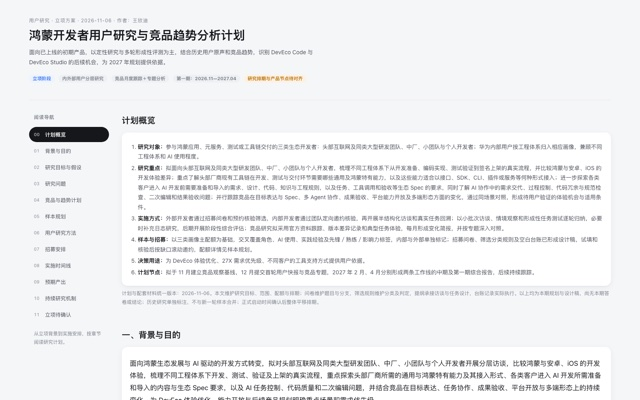
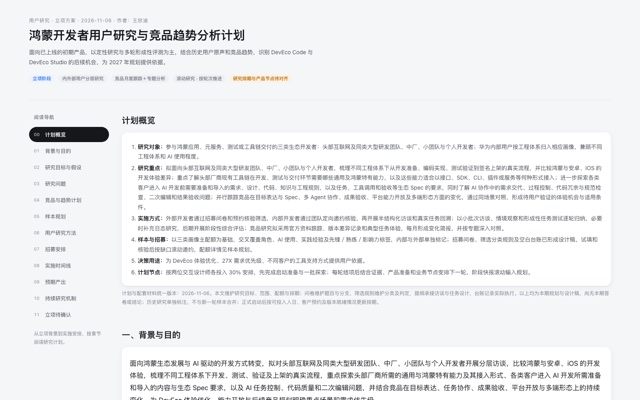
docs: schedule rolling research for two designers at 30 percent

diff --git a/analysis/user-research-plan/REPORT-鸿蒙开发者用户研究计划.html b/analysis/user-research-plan/REPORT-鸿蒙开发者用户研究计划.html
@@ -109,7 +109,7 @@ b{font-weight:600;color:var(--ink)}
   <div class="eyebrow">用户研究 · 立项方案 · 2026-11-06 · 作者：王欣迪</div>
   <h1>鸿蒙开发者用户研究与竞品趋势分析计划</h1>
   <p class="lede">面向已上线的初期产品，以定性研究与多轮形成性评测为主，结合历史用户原声和竞品趋势，识别 DevEco Code 与 DevEco Studio 的后续机会，为 2027 年规划提供依据。</p>
-  <div class="status"><span class="pill p-blue">立项阶段</span><span class="pill p-mute">内外部用户分层研究</span><span class="pill p-mute">竞品月度跟踪＋专题分析</span><span class="pill p-mute">第一期：2026.11—2027.04</span><span class="pill p-warn">研究排期与产品节点待对齐</span></div>
+  <div class="status"><span class="pill p-blue">立项阶段</span><span class="pill p-mute">内外部用户分层研究</span><span class="pill p-mute">竞品月度跟踪＋专题分析</span><span class="pill p-mute">滚动研究 · 按轮次推进</span><span class="pill p-warn">研究排期与产品节点待对齐</span></div>
 </header>
 <div class="report-layout">
   <aside class="sidebar" aria-label="阅读导航">
@@ -144,9 +144,9 @@ b{font-weight:600;color:var(--ink)}
     <li><b>实施方式：</b>外部开发者通过招募问卷和预约核验筛选，内部开发者通过团队定向邀约核验，再开展半结构化访谈和真实任务回溯；以小批次访谈、情境观察和形成性任务测试逐轮归纳，必要时补充日志研究，后期开展阶段性综合评估；竞品研究拟采用官方资料跟踪、版本差异记录和典型任务体验，每月形成变化简报，并按专题深入对照。</li>
     <li><b>样本与招募：</b>以三类画像主配额为基础，交叉覆盖角色、AI 使用、实践经验及先锋／熟练／影响力标签，内部与外部单独标记；招募问卷、筛选分类规则及空白台账已形成设计稿，试填和核验后按缺口滚动邀约，配额详情见样本规划。</li>
     <li><b>决策用途：</b>为 DevEco 体验优化、27X 需求优先级、不同客户的工具支持方式提供用户依据。</li>
-    <li><b>计划节点：</b>拟于 11 月建立竞品观察基线，12 月提交首轮用户快报与竞品专题，2027 年 2 月、4 月分别形成两条工作线的中期及第一期综合报告，后续持续跟踪。</li>
+    <li><b>计划节点：</b>按两位交互设计师各投入 30% 安排，先完成启动准备与一批探索；每轮结项后结合证据、产品准备和业务节点安排下一轮，阶段快报滚动输入规划。</li>
   </ol></div>
-  <p class="note">计划与配套材料统一版本：2026-11-06。本文维护研究目标、范围、配额与排期；问卷维护题目与分支，筛选规则维护分类及判定，提纲承接访谈与任务设计，台账记录实际执行。以上均为本期规划与设计稿，尚无本期答卷或结论；历史研究单独标注，不与新一轮样本合并；正式启动时间确认后整体平移排期。</p>
+  <p class="note">计划与配套材料统一版本：2026-11-06。本文维护研究目标、范围、配额与排期；问卷维护题目与分支，筛选规则维护分类及判定，提纲承接访谈与任务设计，台账记录实际执行。以上均为本期规划与设计稿，尚无本期答卷或结论；历史研究单独标注，不与新一轮样本合并；正式启动后按可投入人日、客户预约及版本就绪情况更新排期。</p>
   </section>
 
   <section aria-labelledby="background">
@@ -264,21 +264,12 @@ b{font-weight:600;color:var(--ink)}
   </tbody></table></div>
   <p class="note">按三类画像与实际角色选择可比任务：企业 / 平台人员重点对照 C2、C4，小团队与个人重点对照 C1、C3，承担生态服务或工具交付的人员补充 C4、C5；具体专题仍以实际任务为准。AI 未用者用于了解采用前提与现有工作方式，不强行参与 AI 工具熟练操作对照；内部支持条件单独记录。</p>
   <p class="note">任务规模、工程起点、测试数据与完成标准在体验前统一；结合 1028 版 P39 的度量关注点，记录意图确认、任务接续、迁移后首次跑通、多设备验证、定位到复验、流水线接入与签名提交的路径及耗时，并记录人工介入和证据完整性。平台与模型差异单独说明，避免将单次结果归因于产品设计。</p>
-  <h3>月度专题与阶段交付</h3>
-  <div class="tw"><table><thead><tr><th>计划时段</th><th>竞品趋势工作</th><th>与用户研究的衔接 / 预期产出</th></tr></thead><tbody>
-  <tr><th>2026 年 11 月</th><td>整理已有专题，复核观察基线，确定首轮产品、版本和任务。</td><td>形成跟踪清单与五专题问题表，支持首轮访谈追问。</td></tr>
-  <tr><th>12 月</th><td>优先深入 C1 开发准备与 C2 任务协作，滚动扫描其他专题。</td><td>配合首轮用户快报，交付准备 / Spec 与过程控制专题对照及待验证问题。</td></tr>
-  <tr><th>2027 年 1 月</th><td>深入 C3 质量验收与 C4 平台开放，补充典型任务体验。</td><td>结合本轮形成性评测及按需开展的观察／日志研究，形成验收路径、工具链与能力形式对照。</td></tr>
-  <tr><th>2 月</th><td>复核前期变化与反例，综合五专题的证据和待补项。</td><td>纳入 02-26 中期报告，形成“用户需求—竞品变化—候选机会—验证任务”对照。</td></tr>
-  <tr><th>3 月</th><td>深入 C5 多端形态及触屏 / 笔，复测与 27X 候选方案相关的竞品变化。</td><td>为原型测试提供流程参照，记录用户反馈与候选方案差异。</td></tr>
-  <tr><th>4 月及后续</th><td>复核重点版本与各专题证据，汇总第一期，转入持续跟踪。</td><td>纳入 04-30 综合报告；每月变化简报、每季度趋势回顾，衔接版本规划。</td></tr>
-  </tbody></table></div>
-  <p class="note">1028 版 P38 提供阶段推进线索，具体产品日期需重新确认；竞品工作按本期多轮研究安排互锁。本计划从 11 月开展补充研究，4 月形成第一期报告，后续持续支撑 5–9 月版本复测。每月拟提交 1 份变化简报；重大版本更新时按关联场景补充专题。资料负责人维护来源与版本台账，专题分析由体验设计、产品与相关工程人员共同复核，具体分工在立项时明确。</p>
+<h3>竞品工作随研究轮次推进</h3><div class="tw"><table><thead><tr><th>衔接阶段</th><th>竞品工作</th><th>交付与投入边界</th></tr></thead><tbody><tr><td>启动准备</td><td>复核1028材料与已有报告中的版本、入口和证据，建立C1–C5清单。</td><td>只补当前研究必需信息，避免一次重做全部竞品。</td></tr><tr><td>探索访谈</td><td>优先C1开发准备、C2任务协作；其他专题按真实用户事件补充。</td><td>每月一份简短变化记录，形成待验证假设。</td></tr><tr><td>现有产品形成性评测</td><td>按任务深入C3质量验收、C4工程开放；每次聚焦一个专题。</td><td>用同场景路径解释问题与候选做法，不把多产品体验都排入同一周。</td></tr><tr><td>迭代方案测试</td><td>围绕候选改动复核相关专题；C5多端与输入按场景需要启动。</td><td>只跟踪会改变本轮任务和方案判断的变化。</td></tr><tr><td>阶段性综合评估与后续</td><td>复核关键版本、反例与适用条件，形成阶段对照。</td><td>与用户证据一起输入产品；是否继续专项在结项时决定。</td></tr></tbody></table></div><p class="note">竞品跟踪与招募协调共用每周约 0.5 人日；重大版本需要深挖时，从当期任务中重新分配投入并调整排期，不作为额外免费工作叠加。既有材料的月份、版本与展会日期不自动转成新的交付承诺。</p>
   </section>
 
   <section aria-labelledby="sample">
   <h2 id="sample">五、样本规划<small>按研究问题分层，滚动补充关键场景</small></h2>
-  <p>半年内建议覆盖 <b>30–40 位独立参与者</b>，分配到探索访谈、任务测试和综合评估，不要求人人完成深度访谈，沿用前期规划画像，收敛为三组人数区间，目标比例约为 P1 40%、P2 25%、P3 35%，按最终人数及覆盖调整。以下为研究覆盖与工作量安排，不代表生态人群的实际比例。在半年区间内确认各组目标，各轮另定场次数；最终以完成首次研究的独立人数计算占比。</p>
+  <p>本期内建议覆盖 <b>30–40 位独立参与者</b>，分配到探索访谈、任务测试和综合评估，不要求人人完成深度访谈，沿用前期规划画像，收敛为三组人数区间，目标比例约为 P1 40%、P2 25%、P3 35%，按最终人数及覆盖调整。以下为研究覆盖与工作量安排，不代表生态人群的实际比例。在本期区间内确认各组目标，各轮另定场次数；最终以完成首次研究的独立人数计算占比。</p>
   <h3>主配额：三类画像，每人仅归入一组</h3>
   <div class="tw"><table><thead><tr><th>画像主类</th><th class="num">建议区间</th><th>识别依据与重点覆盖</th></tr></thead><tbody>
   <tr><th>P1 头部互联网及同类大型研发团队</th><td class="num">12–16 人</td><td>多团队协作，具有组织级研发平台、工具链或专门工程支撑；重点了解能力开放、内部工具接入与复杂协作。华为内部符合相同工程形态的团队可纳入，来源另行标记；争取覆盖 3–4 家外部重点企业。</td></tr>
@@ -297,14 +288,14 @@ b{font-weight:600;color:var(--ink)}
   <tr><th>流程与项目状态</th><td>开发准备、编码、测试验证、签名 / 发布各争取 ≥6 人有直接经历；暂停 / 放弃项目争取 3–4 人。</td><td>同一人可覆盖多个流程；纳入顺畅案例和中断案例。未上架不作为排除条件。</td></tr>
   <tr><th>平台与终端</th><td>Android 实际经验 ≥8 人、iOS ≥6 人；非手机终端经验 ≥6 人，可重叠。</td><td>记录原生 ArkTS、跨平台 / 迁移开发，以及平板、2in1、穿戴、车机等具体设备。比较相近任务与经验条件。</td></tr>
   </tbody></table></div>
-<h3>先锋、熟练与意见影响力：三个可重叠标签</h3><p>这三个标签与 P1–P3 画像独立；不把“资深”“头部”“AI 高频”互相等同。以下是本期招募的操作定义，先试填与核验，再按实际样本校准；标签不向受访者展示，不作为普通用户的淘汰条件。</p><div class="tw"><table><thead><tr><th>标签</th><th>初筛与核验规则</th><th>安排</th></tr></thead><tbody><tr><td>先锋候选</td><td>Q17：近 3 个月试用 ≥2 个新 AI 工具／主要新功能，并用于本人实际任务，且有改造工作流或扩展规则／工具的经历；预约核验一例新任务、限制及应对。</td><td>半年争取 6–8 人，重点用于机会探索；早期试用不等于熟练。</td></tr><tr><td>目标产品熟练候选</td><td>Q18：选定一个产品；最近 4 周平均每周使用 ≥1 天，能独立完成 ≥2 类与本人岗位相关的任务，并由最近任务核验；AI 可作为工作工具，独立指不需他人逐步指导。</td><td>半年争取 10–14 人；Code、Studio、其他 AI 工具分别标记，不互相替代。短期发布或低频专业岗位可记录例外。</td></tr><tr><td>意见影响力候选</td><td>Q19：近 6 个月有分享／指导／选型行为，且有至少 2 次他人使用或协作反馈；核验一例具体影响及本人角色。</td><td>半年争取 3–5 人；不按粉丝数、职级或自称专家筛选。</td></tr><tr><td>普通、初用与停用对照</td><td>从未用 AI、不满足上述标签、Code 仅试用或停用，均保留真实任务样本。</td><td>专项测试按使用阶段分组；不让先锋与熟练用户替代上手用户。</td></tr></tbody></table></div><p class="note">示例工作量：探索访谈 18 人；两轮形成性测试各 6 人（合计新增 8 人、复访 4 人次）；综合评估 12 人（新增 8 人、复访 4 人次），合计 34 位独立参与者、42 人次。此例仅检验排期可行性，具体按覆盖与证据缺口调整，日志与观察另记场次。</p>  <h3>招募节奏与偏差控制</h3>
-  <ul><li>头部厂商组优先覆盖工具链接入与一线开发；其他各组同时保留 AI 低频或未用者，避免只招募活跃 AI 用户。</li><li>内部 6–10 人在半年内争取覆盖至少 3 个业务团队，一线开发 ≥4 人、测试 / 发布 ≥1 人；记录内部支持条件，内部反馈单独分析，不能替代外部客户证据。</li><li>除头部厂商配对访谈外，同一外部企业原则上不超过 2 人；头部厂商原则上不超过 3 人。每批检查渠道集中程度。</li><li>先用 3–5 位外部开发者试填招募问卷，再完成 2–3 场访谈试访；每批 5–8 人后检查题目、时长和覆盖。此后每批按新主题、反例及缺失场景补招，调整人数时保留原因和实际比例。</li></ul>
+<h3>先锋、熟练与意见影响力：三个可重叠标签</h3><p>这三个标签与 P1–P3 画像独立；不把“资深”“头部”“AI 高频”互相等同。以下是本期招募的操作定义，先试填与核验，再按实际样本校准；标签不向受访者展示，不作为普通用户的淘汰条件。</p><div class="tw"><table><thead><tr><th>标签</th><th>初筛与核验规则</th><th>安排</th></tr></thead><tbody><tr><td>先锋候选</td><td>Q17：近 3 个月试用 ≥2 个新 AI 工具／主要新功能，并用于本人实际任务，且有改造工作流或扩展规则／工具的经历；预约核验一例新任务、限制及应对。</td><td>本期争取 6–8 人，重点用于机会探索；早期试用不等于熟练。</td></tr><tr><td>目标产品熟练候选</td><td>Q18：选定一个产品；最近 4 周平均每周使用 ≥1 天，能独立完成 ≥2 类与本人岗位相关的任务，并由最近任务核验；AI 可作为工作工具，独立指不需他人逐步指导。</td><td>本期争取 10–14 人；Code、Studio、其他 AI 工具分别标记，不互相替代。短期发布或低频专业岗位可记录例外。</td></tr><tr><td>意见影响力候选</td><td>Q19：近 6 个月有分享／指导／选型行为，且有至少 2 次他人使用或协作反馈；核验一例具体影响及本人角色。</td><td>本期争取 3–5 人；不按粉丝数、职级或自称专家筛选。</td></tr><tr><td>普通、初用与停用对照</td><td>从未用 AI、不满足上述标签、Code 仅试用或停用，均保留真实任务样本。</td><td>专项测试按使用阶段分组；不让先锋与熟练用户替代上手用户。</td></tr></tbody></table></div><p class="note">累计覆盖示例：若后续安排两批探索共 12 人，两轮形成性测试各 8 人（各新增 6 人、复访 2 人次），综合评估 12 人（新增 8 人、复访 4 人次），则为 32 位独立参与者、40 人次。此例仅说明去重口径，不是首轮或固定周期承诺。30–40 人作为多轮累计覆盖估计，每轮先确认可投入人日与证据缺口，再决定是否追加。</p>  <h3>招募节奏与偏差控制</h3>
+  <ul><li>头部厂商组优先覆盖工具链接入与一线开发；其他各组同时保留 AI 低频或未用者，避免只招募活跃 AI 用户。</li><li>内部 6–10 人在本期内争取覆盖至少 3 个业务团队，一线开发 ≥4 人、测试 / 发布 ≥1 人；记录内部支持条件，内部反馈单独分析，不能替代外部客户证据。</li><li>除头部厂商配对访谈外，同一外部企业原则上不超过 2 人；头部厂商原则上不超过 3 人。每批检查渠道集中程度。</li><li>先用 3–5 位外部开发者试填招募问卷，再完成 2–3 场访谈试访；每批 5–8 人后检查题目、时长和覆盖。此后每批按新主题、反例及缺失场景补招，调整人数时保留原因和实际比例。</li></ul>
   <p class="note">上述细分均为拟定招募目标。优先级依次为：真实任务经历、画像主配额、关键角色、AI 使用与经验差异、其他场景标签。无法覆盖的组合在报告中说明，不通过加权把目的性样本包装为生态分布。</p>
   </section>
 
   <section aria-labelledby="methods">
 <h2 id="methods">六、研究方法与访谈提纲</h2>
-<p>以定性访谈、情境观察和归纳分析为主，以小批次形成性测试逐轮改进。探索访谈解释真实行为与机会；任务测试观察用户能否完成具体操作；后期综合评估汇总关键场景表现。已上线的产品仍可做形成性评测，研究目的决定评价类型。</p><div class="tw"><table><thead><tr><th>方法</th><th>拟定规模与阶段</th><th>用途与启动条件</th></tr></thead><tbody><tr><td>半结构化访谈＋关键事件回溯</td><td>探索阶段每批 5–8 人；预估 3 批，共 15–24 人，按覆盖调整；60–90 分钟／场。</td><td>先讲真实项目，再沿旅程深挖；每批归纳后决定补谁、问什么。</td></tr><tr><td>情境访谈／工作流观察</td><td>从访谈样本中选 4–6 人，约 60–90 分钟，可并入访谈或另约。</td><td>有可展示且已脱敏的任务时观察实际操作与工具切换；不为研究额外开展长时间驻场参与式观察。</td></tr><tr><td>形成性可用性测试</td><td>第 2、3 轮各先安排 5–8 人；每轮聚焦一个目标场景与相近用户。</td><td>使用当前版本或可操作原型；先测、再改、再测。若比较差异很大的画像，分别安排批次，不将 5–8 人理解为全部分组都充分。</td></tr><tr><td>事件日志＋回访（按需）</td><td>4–6 位有持续任务者，记录 7–14 天；每次关键事件 3–5 分钟。</td><td>仅当访谈无法解释长任务、中断或跨日验收时启动；记任务、版本、介入、结果及证据，结束后回访。</td></tr><tr><td>阶段性综合评估／复测</td><td>第 4 轮先按 10–12 人估算执行工作量；任务与用户覆盖决定实际安排。</td><td>固定版本、任务与成功标准后评价表现；可进行小样本总结性评价。若要量化推广或版本优劣结论，另按指标精度、效应与分组设计样本，10–12 不是固定标准。</td></tr><tr><td>小组讨论／共创（条件性）</td><td>必要时同类角色 4–6 人／场，单独安排，不计入默认必做工作。</td><td>访谈后讨论机会、术语或协作边界；避免上下级混组。不用群体意见替代个人行为或任务成功证据。</td></tr><tr><td>竞品趋势与同任务体验</td><td>每周扫描，每月简报；每专题选 2–3 个可比产品。</td><td>围绕 C1–C5 与 H1–H6 跟踪，不按功能数量排名；新版本先复核。</td></tr><tr><td>招募筛选问卷</td><td>20 道核心题＋联系授权；按分支预计 10–15 分钟；3–5 人试填校准。</td><td>用于样本识别和方法分配；本期不预设大样本满意度问卷，确需量化时另行立项设计。</td></tr></tbody></table></div>
+<p>以定性访谈、情境观察和归纳分析为主，以小批次形成性测试逐轮改进。探索访谈解释真实行为与机会；任务测试观察用户能否完成具体操作；后期综合评估汇总关键场景表现。已上线的产品仍可做形成性评测，研究目的决定评价类型。</p><div class="tw"><table><thead><tr><th>方法</th><th>拟定规模与阶段</th><th>用途与启动条件</th></tr></thead><tbody><tr><td>半结构化访谈＋关键事件回溯</td><td>探索阶段先开展一批 5–8 人；结项后再决定是否追加批次，每场 60–90 分钟；不一次承诺完成全部深访。</td><td>先讲真实项目，再沿旅程深挖；每批归纳后决定补谁、问什么。</td></tr><tr><td>情境访谈／工作流观察</td><td>从访谈样本中选 4–6 人，约 60–90 分钟，可并入访谈或另约。</td><td>有可展示且已脱敏的任务时观察实际操作与工具切换；不为研究额外开展长时间驻场参与式观察。</td></tr><tr><td>形成性可用性测试</td><td>第 2、3 轮各先安排 5–8 人；每轮聚焦一个目标场景与相近用户。</td><td>使用当前版本或可操作原型；先测、再改、再测。若比较差异很大的画像，分别安排批次，不将 5–8 人理解为全部分组都充分。</td></tr><tr><td>事件日志＋回访（按需）</td><td>4–6 位有持续任务者，记录 7–14 天；每次关键事件 3–5 分钟。</td><td>仅当访谈无法解释长任务、中断或跨日验收时启动；记任务、版本、介入、结果及证据，结束后回访。</td></tr><tr><td>阶段性综合评估／复测</td><td>第 4 轮先按 10–12 人估算执行工作量；任务与用户覆盖决定实际安排。</td><td>固定版本、任务与成功标准后评价表现；可进行小样本总结性评价。若要量化推广或版本优劣结论，另按指标精度、效应与分组设计样本，10–12 不是固定标准。</td></tr><tr><td>小组讨论／共创（条件性）</td><td>必要时同类角色 4–6 人／场，单独安排，不计入默认必做工作。</td><td>访谈后讨论机会、术语或协作边界；避免上下级混组。不用群体意见替代个人行为或任务成功证据。</td></tr><tr><td>竞品趋势与同任务体验</td><td>每周扫描，每月简报；每专题选 2–3 个可比产品。</td><td>围绕 C1–C5 与 H1–H6 跟踪，不按功能数量排名；新版本先复核。</td></tr><tr><td>招募筛选问卷</td><td>20 道核心题＋联系授权；按分支预计 10–15 分钟；3–5 人试填校准。</td><td>用于样本识别和方法分配；本期不预设大样本满意度问卷，确需量化时另行立项设计。</td></tr></tbody></table></div>
 <h3>访谈组织：Top-down 定方向，Bottom-up 归纳证据</h3>
 <div class="flow"><span>规划决策 → 研究问题／假设</span><span>真实项目 → 用户旅程</span><span>5W2H → 补齐事实</span><span>Do／Think／Feel → 事件理解</span><span>事件编码 → 主题 → 决策</span></div>
 <p>Top-down 用于研究团队明确本轮要支持的决策和证据缺口；主持时以用户自己的任务顺序展开。5W2H 按需要追问背景、参与人、时点、目标、方式及成本；先问 Do，再问当时的 Think 和 Feel，不逐题机械盘问，也不把研究者推测写成用户感受。Bottom-up 从事件卡归纳主题、比较人群差异与反例，再回看假设。</p>
@@ -336,15 +327,18 @@ b{font-weight:600;color:var(--ink)}
   </section>
 
   <section aria-labelledby="timeline">
-<h2 id="timeline">八、实施时间线与多轮研究</h2>
-<p>建议第一期按 2026 年 11 月至 2027 年 4 月的窗口安排，以下为拟定排期；正式启动后调整。每轮完整经过“评测前—评测中—评测后”，下一轮继承上一轮发现和产品改动，招募与分析可适度并行。</p>
-<div class="gwrap"><div class="gantt" id="gantt" aria-label="多轮研究阶段与里程碑甘特图"></div></div>
-<h3>半年分阶段安排</h3><div class="tw"><table><thead><tr><th>阶段／窗口</th><th>对象与规模</th><th>工作与输出</th><th>进入下一阶段的条件</th></tr></thead><tbody><tr><td>准备 · 11 月上旬</td><td>历史资料复核；问卷试填 3–5 人；试访 2–3 场</td><td>对齐本期产品版本、BP 决策与展会节点；建立历史证据索引、假设、筛选及提纲。</td><td>本轮问题明确、招募可执行、试访通过；试访符合正式标准才计入研究。</td></tr><tr><td>第 1 轮 · 探索<br>11 月中旬—12 月</td><td>每批 5–8 人，预估 3 批；含 3–5 位历史用户复访，计入当批人数。</td><td>定性访谈＋真实任务回溯，按需观察；补足头部及普通用户；12-11 首轮快报，此后继续滚动补证。</td><td>形成重点场景、问题与反例；每个优先机会能追溯到实际任务。</td></tr><tr><td>第 2 轮 · 现有产品形成性评测<br>1—2 月</td><td>一个重点场景先 5–8 人；需要时另选 4–6 人做日志。</td><td>围绕已上线 Code 使用与 Studio 验证衔接设计任务；形成问题分级、改善建议，02-26 中期评审。</td><td>与产品确认可改项、责任人与复测版本；考虑客户假期安排。</td></tr><tr><td>第 3 轮 · 迭代方案形成性测试<br>3 月</td><td>每轮 5–8 人；兼有复访与首次体验者，分别记录。</td><td>验证修订流程／可操作原型；保留未修改项对照；输出问题是否消除及新问题。</td><td>方案和版本稳定到可评价；若未就绪，继续现状专题，不宣称完成方案验证。</td></tr><tr><td>第 4 轮 · 阶段性综合评估／复测<br>4 月</td><td>暂估 10–12 人；依据场景和分组调整，按需要补招。</td><td>固定任务与评价口径，汇总任务表现、主观评价及历史问题变化；04-30 综合报告与规划行动表。</td><td>支持具体产品决策；若需统计检验，另行设计样本；条件不足则交付定性汇总和未验证项。</td></tr></tbody></table></div>
-<h3>每轮执行模板（约 4–6 周，可按任务复杂度调整）</h3><div class="tw"><table><thead><tr><th>阶段</th><th>顺序与安排</th><th>完成物</th></tr></thead><tbody><tr><td>评测前 · 第 1–2 周</td><td>① 测评需求对齐：决策、对象、版本、指标；② 场景制定：来自真实任务；③ 任务／提纲设计；④ 测评准备：环境、工程、记录、成功标准；⑤ 内部预测试／试访并修订；⑥ 用户招募与预约从需求明确后并行启动。</td><td>本轮计划、场景／任务卡、提纲、预测试记录、已核验排期；内部预测试不替代正式用户。</td></tr><tr><td>评测中 · 第 3–4 周</td><td>⑦ 执行访谈／观察／任务测试：逐场确认授权、版本及经历；当天整理事件与反例，记录任务偏差。</td><td>脱敏记录、任务表现、评分依据、异常与待补证问题；重大任务变更后另标批次。</td></tr><tr><td>评测后 · 第 4–6 周</td><td>⑧ 数据分析：编码、聚类、分组对照；⑨ 报告撰写与产品评审：明确行动和下一轮；⑩ 礼品发放及登记按参与约定执行，可在完成参与后启动，不等待终报。</td><td>研究报告、决策／行动台账、复测任务、激励履约记录；真实联系与礼品信息不放公开仓库。</td></tr></tbody></table></div>
-<p class="note">每轮分别统计独立人数、研究人次、方法、版本和用户构成；同一人参加多轮仅计一位独立参与者。30–40 是半年覆盖区间，不是每轮人数。12-11、02-26、04-30 是研究交付目标，不是已确认的产品发布或展会日期。</p>
-<h3>与 BP、版本及展会互锁</h3>
-<p>十月规划审查材料提到“11 月汇报、11–12 月进 BP”，本期应在产品实际规划冻结前滚动提交问题与机会快报，不等到半年终报才输入。确切 BP 冻结日、展会名称／日期和版本范围由产品确认；旧稿中的 HDC 或版本时间只保留为待核对线索。</p><div class="tw"><table><thead><tr><th>决策节点</th><th>建议倒排（相对节点）</th><th>研究输入与使用边界</th></tr></thead><tbody><tr><td>BP 需求评审／冻结</td><td>提前 2–3 周提交机会证据包，评审前补齐高影响争议。</td><td>优先人群、真实任务、历史复核、影响与候选方案、依赖和证据缺口；按实际冻结日调整首轮节奏。</td></tr><tr><td>版本范围／设计冻结</td><td>冻结前完成一轮形成性测试，预留修订和必要复测时间。</td><td>将高影响问题转成需求与验收任务；未验证项标记条件，不承诺效果。</td></tr><tr><td>展会／样板演示</td><td>建议提前 4–6 周明确演示场景，提前 2–3 周完成目标用户演练与问题修正。</td><td>检查场景真实性、关键路径、异常恢复及展示可理解性；演示走通不等于全部生产场景通过。</td></tr><tr><td>上线后／展会后</td><td>具备真实使用后 2–4 周回访，按实际采用周期调整。</td><td>区分初次演示评价与持续工作体验，输入后续版本和下一轮研究。</td></tr></tbody></table></div>
-</section>
+<h2 id="timeline">八、人力投入与滚动实施安排</h2>
+<p>由两位交互设计师兼任研究工作，每人投入 30%，合计约 0.6 人力。按每周 5 个工作日、每天 8 小时折算，两人合计约 <b>3 人日／周（24 小时）</b>，每人约 1.5 人日。以下周期是针对本项目投入的估算，不是行业统一标准；不预设固定结束月份。</p>
+<h3>每周可投入时间如何分配</h3><div class="tw"><table><thead><tr><th>工作</th><th>合计投入</th><th>安排</th></tr></thead><tbody><tr><td>当轮核心研究</td><td>约 2.25 人日／周（18小时）</td><td>包含需求对齐、场景与任务设计、预测试、主持记录、资料整理、分析和报告，不只计算访谈时长。</td></tr><tr><td>招募协调与竞品维护</td><td>约 0.5 人日／周（4小时）</td><td>预约核验、变更协调、轻量竞品更新及必要产品沟通；深度竞品专题需替换当轮其他工作。</td></tr><tr><td>机动余量</td><td>约 0.25 人日／周（2小时）</td><td>处理临时业务、设备与预约异常；余量不足时顺延，避免用加班填补。</td></tr></tbody></table></div>
+<p>两人轮换主持与记录，也轮换整理和分析，避免把一人的 30% 全部占用在场次执行上。一场 75 分钟访谈若两人共同参加，现场占用合计 2.5 人时，另需核验、准备、整理与分析。执行周建议安排 2 场左右，最多按当周可用时间确认 3 场；分析周减少或暂停新场次。</p>
+<div class="flow"><span><b>启动准备</b><br>约 2–3 周</span><span><b>首批探索</b><br>约 6–9 周</span><span><b>现有产品评测</b><br>约 6–9 周</span><span><b>修订后再测试</b><br>约 6–9 周</span><span><b>阶段综合评估</b><br>约 9–12 周</span></div>
+<p class="note">图示为各阶段的工作窗口，不表示无间隔连续排满。产品设计研发、客户审批和等待版本的时间另列；下一轮只有在目标、任务及可用版本明确后才启动。</p>
+<h3>阶段工作量与启动条件</h3><div class="tw"><table><thead><tr><th>阶段</th><th>拟定对象与规模</th><th>核心研究工作量／日历窗口</th><th>交付与是否继续的判断</th></tr></thead><tbody><tr><td>启动准备</td><td>历史材料、共同研究框架；问卷试填3–5人、试访安排。</td><td>约4–6人日；2–3周。</td><td>完成材料核验、假设、招募和提纲；首轮试访计入该轮执行工作量；已完成的招募与提纲准备在首轮复用，不重复估算。</td></tr><tr><td>R1 · 首批探索</td><td>5–8人，先覆盖本轮关键画像和场景；历史复访按需要纳入。</td><td>约9–12人日；6–9周。</td><td>真实流程、事件主题、反例和机会快报；检查遗漏人群，不因一批完成就宣称全部画像饱和。</td></tr><tr><td>R1 · 条件性补充批次</td><td>按缺口追加5–8人；是否追加在前一批分析后决定。</td><td>每追加一批约7–10人日；5–7周。</td><td>可补头部工具链、普通／停用用户或新主题；不默认三批全部必做。</td></tr><tr><td>R2 · 现有产品形成性评测</td><td>5–8位目标场景相关用户；必要时从中邀请观察。</td><td>约10–13人日；6–9周。</td><td>任务表现、问题分级、改善清单和产品评审；日志研究若启动，单独调整投入与周期。</td></tr><tr><td>产品修改与版本准备</td><td>产品／设计／研发确认范围和可用版本。</td><td>按实际改动另行评估，不计为研究人员空余时间。</td><td>两位交互若同时负责方案设计，其工作从同一30%额度中扣除；研究轮次顺延或缩小当期范围。</td></tr><tr><td>R3 · 迭代方案形成性测试</td><td>5–8人，含复访与新用户，分别标记。</td><td>约9–12人日；6–9周。</td><td>检验改善与新问题；若方案未就绪，保持现状专题或等待，不做无方案的验证。</td></tr><tr><td>R4 · 阶段性综合评估／复测</td><td>暂按10–12人估算；具体场景与指标另行确认。</td><td>约12–16人日；9–12周。</td><td>固定任务与口径形成阶段表现、遗留问题及规划行动；量化推断的样本与工作量另估。</td></tr></tbody></table></div>
+<p class="note">人日为两人合计的核心研究投入，包含多人同场的时间，不能再除以两个人重复压缩周期；日历窗口按每周约2.25人日核心研究容量并预留预约周转估计。招募与竞品使用单列周额度，复杂招募、出差、长日志、额外方案设计或多产品比较超出基准时，须先调整范围或顺延。累计30–40位独立参与者按多轮逐步覆盖，不作为某一截止日期的硬指标。</p>
+<h3>每轮按“评测前—评测中—评测后”展开</h3><div class="tw"><table><thead><tr><th>阶段</th><th>工作与建议留时</th><th>完成物</th></tr></thead><tbody><tr><td>评测前 · 通常2–3周</td><td>①需求对齐；②场景制定；③访谈／任务设计；④环境、材料与记录准备；⑤内部预测试或试访及修订。⑥用户招募在需求明确后并行进行，核验与预约保留周转时间。</td><td>本轮问题、任务卡、提纲、预测试记录、可执行排期；不在场景未确定时大批锁定用户。</td></tr><tr><td>评测中 · 通常3–4周</td><td>⑦按每周约2场执行访谈／观察／任务测试，当天做简短复盘，留独立整理时间。10–12人的综合评估按约5–6周安排。</td><td>脱敏事件、任务表现、评分依据、异常和待补证问题；重大改题另标批次。</td></tr><tr><td>评测后 · 通常1–2周</td><td>⑧编码、聚类及分组分析；⑨报告撰写、产品评审与下一轮取舍；综合报告可预留2–3周。⑩礼品按参与约定办理，可在参与结束后启动。</td><td>阶段报告、行动与复测清单、参与履约记录；有时间分析完成再开下一轮执行。</td></tr></tbody></table></div>
+<p>准备、招募和资料整理可以有限并行，但同一人的工时只计算一次；本轮分析与下一轮准备只在周投入允许时重叠。模板时长与阶段窗口按具体工作复用调整，不机械相加，也不以压缩分析和预测试换取赶工。</p>
+<h3>与BP、版本及展会的关系</h3>
+<p>研究按实际周期推进，规划节点需要的证据按批次提前提供。十月材料提到11月汇报、11–12月进BP，这是待核对的业务窗口；确切BP冻结日、展会名称／日期和版本范围仍由产品确认。节点早于研究完成时，提交已取得的证据与明确的未验证项，不承诺提前完成整期研究。</p><div class="tw"><table><thead><tr><th>决策节点</th><th>研究如何配合</th><th>边界</th></tr></thead><tbody><tr><td>BP需求评审／冻结</td><td>优先提交已完成批次的机会快报：人群、任务、证据、影响、候选行动及依赖。</td><td>尽量在评审前留出讨论时间；未完成的假设标待验证，后续滚动补证。</td></tr><tr><td>版本／设计冻结</td><td>根据本轮测试与实际研发能力，确定可改范围和复测任务。</td><td>方案未稳定时不启动综合效果判断；不能将设计实现时间忽略。</td></tr><tr><td>展会／样板演示</td><td>节点确认后优先选一个已获证据支持的场景，预留目标用户演练与修订。</td><td>如需插入专题，明确替换或顺延原排期；演示验证与生产场景评价分开。</td></tr><tr><td>上线或实际使用之后</td><td>按真实采用周期安排回访或复测，验证任务是否进入日常使用。</td><td>不把展会现场认可当作持续使用证据。</td></tr></tbody></table></div></section>
 
   <section aria-labelledby="deliver">
   <h2 id="deliver">九、预期产出与应用<small>拟在研究开展后逐步形成</small></h2>
@@ -372,54 +366,19 @@ b{font-weight:600;color:var(--ink)}
 
   <section aria-labelledby="ongoing">
   <h2 id="ongoing">十、持续研究机制</h2>
-  <div class="grid2"><div class="card"><h4>第一期 · 建立研究基础</h4><ul><li>与用研团队确认立项接口人、职责、招募标准与资料管理方式。</li><li>按月下达招募需求，客户团队协助重点企业邀约。</li><li>仅将单独同意后续邀请者纳入可复访名单；维护研究问题台账、标签版本及退出记录。</li></ul></div><div class="card"><h4>后续 · 常态访谈</h4><ul><li>第一期结束后，拟从 2027 年 5 月起每月访谈 4–6 人，并持续提交竞品变化简报。</li><li>结合版本节奏安排新增场景探索、复访和方案测试。</li><li>每季度结合用户声音与竞品趋势回顾需求变化，计划持续至 2027 年 10 月。</li></ul></div></div>
+  <div class="grid2"><div class="card"><h4>第一期 · 建立研究基础</h4><ul><li>与用研团队确认立项接口人、职责、招募标准与资料管理方式。</li><li>按轮次下达招募需求，客户团队协助重点企业邀约。</li><li>仅将单独同意后续邀请者纳入可复访名单；维护研究问题台账、标签版本及退出记录。</li></ul></div><div class="card"><h4>后续 · 常态访谈</h4><ul><li>阶段结项后按产品问题安排复访或新增研究，规模与同一人力额度匹配，并维护轻量竞品变化记录。</li><li>结合版本节奏安排新增场景探索、复访和方案测试。</li><li>每个阶段结束结合用户声音与竞品趋势回顾需求变化，确认是否继续、暂停等待产品修改或调整范围。</li></ul></div></div>
   </section>
 
 
 
   <section aria-labelledby="open">
   <h2 id="open">立项待确认事项</h2>
-  <div class="card"><ol><li>明确用研、产品、设计与客户团队的接口人和投入人力。</li><li>确认三类画像及交叉配额、内外部近期使用条件、分类负责人和例外纳入机制。</li><li>确认招募渠道、服务报价、激励标准与预算来源。</li><li>确认正式启动时间、研究交付节点，以及 BP 冻结、产品版本与展会日期；按决策窗口倒排。</li><li>确认招募问卷的试填与正式采集平台；确认各轮目标场景、可用版本与预测试，以及观察、日志和量化测量的启动条件。</li><li>确认资料保存、客户授权、反馈方式与后续复访机制。</li><li>确认竞品跟踪名单、专题分工、可体验版本及月度交付节奏。</li></ol></div>
+  <div class="card"><ol><li>按两位交互各30%确认可投入时间、主持记录分工及产品／客户接口人；如需额外执行支持另行确认。</li><li>确认三类画像及交叉配额、内外部近期使用条件、分类负责人和例外纳入机制。</li><li>确认招募渠道、服务报价、激励标准与预算来源。</li><li>确认首轮启动窗口及业务节点；按每周约3人日总投入滚动安排，明确插入任务时的范围取舍与顺延规则。</li><li>确认招募问卷的试填与正式采集平台；确认各轮目标场景、可用版本与预测试，以及观察、日志和量化测量的启动条件。</li><li>确认资料保存、客户授权、反馈方式与后续复访机制。</li><li>确认竞品跟踪名单、专题分工、可体验版本及月度交付节奏。</li></ol></div>
   </section>
   </main>
 </div>
 </div>
 <script>
-// 甘特：每格一周，第 1 周 = 2026-11-02
-(function(){
-  const g=document.getElementById('gantt');
-  const months=[['11月',1,4],['12月',5,9],['1月',10,13],['2月',14,17],['3月',18,22],['4月',23,26]];
-  g.insertAdjacentHTML('beforeend','<div class="mh" style="grid-column:1;border-left:none"></div>');
-  months.forEach(([t,a,b])=>g.insertAdjacentHTML('beforeend',`<div class="mh" style="grid-column:${a+1}/${b+2}">${t}</div>`));
-  const rows=[
-    ['准备与历史复核',1,2,'c-mute','材料 / 假设 / 试访'],
-    ['招募与定向补招',2,26,'c-warn','按轮次与缺口招募'],
-    ['竞品基线与月度跟踪',1,26,'c-pur','C1–C5 版本与任务对照'],
-    ['R1 探索 · 前',1,3,'c-mute','对齐 / 准备'],
-    ['R1 探索 · 中',3,8,'c-blue','分批访谈'],
-    ['R1 探索 · 后',5,9,'c-green','归纳 / BP 输入'],
-    ['R2 形成性 · 前',10,11,'c-mute','任务 / 预测试'],
-    ['R2 形成性 · 中',12,14,'c-blue','5–8 人 / 按需日志'],
-    ['R2 形成性 · 后',14,17,'c-green','中期 / 改善清单'],
-    ['R3 迭代 · 前',18,19,'c-mute','修订 / 准备'],
-    ['R3 迭代 · 中',20,21,'c-blue','5–8 人'],
-    ['R3 迭代 · 后',21,22,'c-green','分析 / 复测建议'],
-    ['R4 综合 · 前',23,24,'c-mute','标准 / 预约'],
-    ['R4 综合 · 中',24,25,'c-blue','暂估 10–12 人'],
-    ['R4 综合 · 后',25,26,'c-green','报告 / 产品行动'],
-  ];
-  rows.forEach(([l,a,b,c,t],i)=>{
-    const r=i+2;
-    g.insertAdjacentHTML('beforeend',`<div class="lb" style="grid-row:${r}">${l}</div><div class="bg" style="grid-row:${r};grid-column:2/28"></div><div class="bar ${c}" style="grid-row:${r};grid-column:${a+1}/${b+2}">${t}</div>`);
-  });
-  const ms=[['12-11 快报',6],['02-26 中期',17],['04-30 终报',26]];
-  const r=rows.length+2;
-  g.insertAdjacentHTML('beforeend',`<div class="lb" style="grid-row:${r}"><b>里程碑</b></div><div class="bg" style="grid-row:${r};grid-column:2/28"></div>`);
-  ms.forEach(([t,w])=>g.insertAdjacentHTML('beforeend',`<div class="ms" title="${t}" style="grid-row:${r};grid-column:${w+1}"></div>`));
-  g.insertAdjacentHTML('beforeend',`<div class="lb" style="grid-row:${r+1};border-top:none"></div>`);
-  ms.forEach(([t,w])=>g.insertAdjacentHTML('beforeend',`<div style="grid-row:${r+1};grid-column:${Math.max(2,w-1)}/${Math.min(28,w+4)};font-size:11px;color:var(--ink2);text-align:center">${t}</div>`));
-})();
-
 // 阅读导航：窄屏折叠，滚动时标记当前章节。
 (function(){
   const panel=document.querySelector('.nav-panel');

diff --git a/analysis/user-research-plan/recruitment-screening-guide.html b/analysis/user-research-plan/recruitment-screening-guide.html
@@ -101,7 +101,7 @@ b{font-weight:600;color:var(--ink)}
 <p>配套招募问卷仅面向外部开发者，不包含内部身份题。外部答卷在台账中由研究员统一标记为“外部”，无需受访者填写来源。内部用户通过业务团队定向邀约，研究员分别确认研究参与及联系授权，核验本人任务、近 3 个月 DevEco 使用、画像与角色，再录入同一台账；不要求填写外部问卷。</p>
 <p>以下配额和分类规则适用于整个研究，仍包含内部 6–10 人；不是外部问卷需要额外招满的名额。两条路径合计控制在 30–40 人，内部与外部来源由招募渠道及核验记录维护，不从公司名称自动推断。</p>
 <h2>样本配额</h2>
-<p>建议招募 30–40 位独立参与者，沿用前期画像方向：头部互联网及同类大型研发团队、中厂、小团队与个人开发者。以下为工作量区间，不是生态分布；半年目标比例约 P1 40%、P2 25%、P3 35%，随实际覆盖调整。按半年覆盖条件确认各组目标，并另定本轮场次，再据实际完成数计算比例。</p>
+<p>建议招募 30–40 位独立参与者，沿用前期画像方向：头部互联网及同类大型研发团队、中厂、小团队与个人开发者。以下为工作量区间，不是生态分布；本期目标比例约 P1 40%、P2 25%、P3 35%，随实际覆盖调整。按本期覆盖条件确认各组目标，并另定本轮场次，再据实际完成数计算比例。</p>
 <div class="tw"><table><thead><tr><th>画像主类</th><th>建议区间</th><th>核验重点</th></tr></thead><tbody><tr><td>P1 头部互联网及同类大型研发团队</td><td>12–16 人</td><td>多团队协作、组织级平台与工具链支撑；包含工程体系相近的内部团队，覆盖 3–4 家外部重点企业</td></tr><tr><td>P2 中厂</td><td>8–10 人</td><td>稳定研发组织和分工，以具体业务交付为主，工程支撑围绕项目配置</td></tr><tr><td>P3 小团队与个人开发者</td><td>10–14 人</td><td>少量成员或个人承担多个环节；组内小团队与独立开发 / 学习者分别争取至少 4 人</td></tr><tr><td>合计</td><td>30–40 人</td><td>三组下限合计 30，上限合计 40；来源与业务标签不另加人数</td></tr></tbody></table></div>
 <p>每人只有一个画像主类。先看本轮项目是否依托组织级平台与多团队体系（P1），再区分稳定分工的中厂（P2）和自主承担多环节的小团队 / 个人（P3）。大型企业的小项目组不只按人数归 P3；不根据品牌名、AI 水平或是否采用某种工具直接归类。问卷事实与核验不一致时保留原答卷，记录调整依据。</p>
 <p>华为内部 / 外部是来源标签：内部实际使用 DevEco 者建议 6–10 人，包含在三组总数内，按工程体系归组，优先覆盖至少 3 个业务团队。“生态伙伴”不再单列，框架、三方库、平台或开发服务记录为业务标签；学生 / 学习者为身份标签。统一称鸿蒙生态开发者。</p>
@@ -130,7 +130,7 @@ b{font-weight:600;color:var(--ink)}
 <p>优先邀请能补足画像主配额的人，再比较该组内关键角色、AI 使用差异、经验及流程场景缺口。同等适配者按可参与时段和报名顺序安排；不按表达流畅程度、负面反馈数量或 AI 熟练度排名。</p>
 <p>同一外部企业原则上 ≤2 人；头部厂商配对访谈可 ≤3 人，并尽量覆盖 3–4 家。内部来自至少 3 个业务团队，一线开发 ≥4 人、测试 / 发布 ≥1 人。若与关键配额冲突，由负责人记录取舍而非静默改类。</p>
 <p>画像主类合计应等于去重后的独立参与者人数；主角色、AI 频率和经验各自合计应等于同一人数（含待确认），跨维度不能相加。流程、设备和副角色多选标签的合计允许超过总人数。</p>
-<p>区间不直接参与减法：研究负责人先在区间内确认半年目标，各组半年目标合计控制在 30–40 人，再计算半年覆盖缺口；本轮人数按方法另定。正式完成数仅统计已批准纳入主样本且至少完成一次正式研究的独立编号，复访另计场次。排期剩余名额＝半年确认目标－已完成首次研究－已确认首次待参与，至少为 0；未确认邀约与候补不占名额。仍未完成的目标人数＝半年确认目标－已完成首次研究。超额或特殊人群另行标注调整原因。</p>
+<p>区间不直接参与减法：研究负责人先在区间内确认本期目标，各组本期目标合计控制在 30–40 人，再计算本期覆盖缺口；本轮人数按方法另定。正式完成数仅统计已批准纳入主样本且至少完成一次正式研究的独立编号，复访另计场次。排期剩余名额＝本期确认目标－已完成首次研究－已确认首次待参与，至少为 0；未确认邀约与候补不占名额。仍未完成的目标人数＝本期确认目标－已完成首次研究。超额或特殊人群另行标注调整原因。</p>
 <h2>台账使用</h2>
 <p>下载配套的 recruitment-tracker-template.md，复制“单人记录卡”管理每位授权候选人，并每周更新配额汇总。模板不含真实受访者或联系方式，填写后应保存在团队受控位置。公开 Pages 仅保留空白模板和研究规则。</p>
 <h2>跳题与问卷平台配置</h2>
@@ -154,7 +154,7 @@ b{font-weight:600;color:var(--ink)}
 <h2>全局版本与执行边界</h2>
 <p>研究计划维护目标、配额、方法和排期；本规则维护分类与筛选口径；招募问卷维护题目与跳题；interview-guide.html承接访谈与评测任务；空白台账承接执行。当前均为研究启动前的设计稿，没有本期真实答卷。正式启动时间、采集平台、联系与资料管理信息确认后，再组织试填和正式招募。</p>
 <p>招募问卷与后续体验测量问卷分别编制、分别统计。招募问卷试填不等于完成访谈；2–3 场访谈试访仅在符合正式标准时计入首次研究。30–40 人是独立参与者的弹性工作量，三类人数区间分别为 12–16、8–10、10–14 人；探索访谈、形成性测试与综合评估分别安排；参与者不必人人深访，复访不重复增加人数。</p>
-<p>凡调整筛选阈值、主配额、标签或题目，须同步检查计划、问卷、筛选规则、提纲及台账并记录版本；招募与定向补招持续到 4 月，之后的常态研究另设周期统计。</p>
+<p>凡调整筛选阈值、主配额、标签或题目，须同步检查计划、问卷、筛选规则、提纲及台账并记录版本；招募与定向补招按每轮缺口推进，阶段结项后再确定下一周期。</p>
 <h2>DevEco Code 后续招募重点</h2>
 <p>在三类画像中交叉检查 DevEco Code 近期使用、曾用后近月未用、仅试用及未使用者的覆盖，不只招募当前活跃用户。Q12 最常用工具可识别其他工具用户；Q13 单独记录是否有 DevEco Code 经历，避免把“最常用其他工具”误判成“没用过 DevEco Code”。Q12 仅向近 4 周用过 AI 者展示，Q13 向所有有项目经历者展示；两题均不是淘汰条件，具体场次按当前可招募人数与后续研究任务安排，暂无依据时不强设产品配额。</p>
 <p>预约或正式访谈追问：DevEco Code 使用在哪类项目和任务、为何选择或停止、是否使用 AI 能力、怎样检查结果和继续修改；未使用者了解现有工具选择与采用条件。Q11、Q12、Q13 看似冲突时先核实时间和具体功能，不直接作废答卷。所有工具选项只作为使用经历记录，其他填答保留原文再统一标签。</p>
@@ -167,14 +167,15 @@ b{font-weight:600;color:var(--ink)}
 <p>试填至少验证 Studio 单产品、Code 单产品、两者都用、Code 仅试用，以及两者未用但有鸿蒙项目这几种路径；同一批试填可交叉覆盖。新增分支后预计时长改为 10–15 分钟，以试填实际耗时校准，不能将所有题都设为全局必答。</p>
 <h2>新增行为标签：先锋、熟练与意见影响力</h2>
 <p>标签彼此独立、允许重叠，也独立于画像 P1–P3 和 AI 使用频率。以下阈值是本期招募的操作定义，不是经过验证的能力量表；试填及预约核验后保留调整记录，不向受访者展示判定阈值。</p>
-<div class="tw"><table><thead><tr><th>标签</th><th>问卷初筛</th><th>核验与半年覆盖方向</th></tr></thead><tbody><tr><td>L1 先锋候选</td><td>Q17a ≥2 个；17b 同时包含实际项目，以及调整工作步骤／组合工具或配置规则／脚本／工具之一</td><td>核验最近3个月一例新工具或新功能、实际任务、局限与应对；通过才标记。半年争取6–8人，不等于全部早期试用者</td></tr><tr><td>L2 目标产品熟练候选</td><td>Q18 所选产品最近4周平均每周 ≥1 天；18c 能独立完成至少2类岗位相关任务</td><td>用 Q09b 或预约一例核验操作、判断与结果；按 Code／Studio／具体其他工具分别记，第二产品另核验。半年争取10–14人，不以开发年限或项目数直接替代</td></tr><tr><td>L3 意见影响力候选</td><td>Q19 有分享、指导或选型行为，且19b ≥2次实际使用／协作反馈</td><td>核验近6个月一例具体影响与本人角色；不要求真实姓名、公开链接或粉丝数。半年争取3–5人</td></tr><tr><td>无标签／待核验</td><td>不满足、信息不完整或未核验</td><td>保留普通、初用、停用及不使用 AI 者；未知不作否定。标签不属于基本资格门槛</td></tr></tbody></table></div>
+<div class="tw"><table><thead><tr><th>标签</th><th>问卷初筛</th><th>核验与本期覆盖方向</th></tr></thead><tbody><tr><td>L1 先锋候选</td><td>Q17a ≥2 个；17b 同时包含实际项目，以及调整工作步骤／组合工具或配置规则／脚本／工具之一</td><td>核验最近3个月一例新工具或新功能、实际任务、局限与应对；通过才标记。本期争取6–8人，不等于全部早期试用者</td></tr><tr><td>L2 目标产品熟练候选</td><td>Q18 所选产品最近4周平均每周 ≥1 天；18c 能独立完成至少2类岗位相关任务</td><td>用 Q09b 或预约一例核验操作、判断与结果；按 Code／Studio／具体其他工具分别记，第二产品另核验。本期争取10–14人，不以开发年限或项目数直接替代</td></tr><tr><td>L3 意见影响力候选</td><td>Q19 有分享、指导或选型行为，且19b ≥2次实际使用／协作反馈</td><td>核验近6个月一例具体影响与本人角色；不要求真实姓名、公开链接或粉丝数。本期争取3–5人</td></tr><tr><td>无标签／待核验</td><td>不满足、信息不完整或未核验</td><td>保留普通、初用、停用及不使用 AI 者；未知不作否定。标签不属于基本资格门槛</td></tr></tbody></table></div>
 <p>“独立”允许查资料及使用 AI，指无需他人逐步指导；测试、平台岗位按其本人职责判断。短期发布的产品、停用但曾熟练、低频专业岗位若有充分案例，可记录例外标签及原因，不更改原始答案。各标签人数不能相加为独立样本；同一人可以同时有三种标签，也可以全部没有。</p>
 <p>Q18 只核验一款所选工具，未选产品的熟练度记“未评估”，不记“不熟练”。Code 实际经历由 Q13 独立保留；其他 AI 工具熟练者进入 Code 初次体验研究时仍按 Code 初用者分析。</p>
 <h2>按阶段分配候选人</h2>
-<div class="tw"><table><thead><tr><th>研究阶段</th><th>邀请重点</th><th>规模与约束</th></tr></thead><tbody><tr><td>R1 探索访谈</td><td>三类画像、角色和使用阶段；先锋与熟练者；补足普通和停用者；历史复访者</td><td>每批5–8人，预估3批，共15–24人；按假设缺口滚动。历史复访者本期参加才计本期人数</td></tr><tr><td>R2 当前产品形成性测试</td><td>已有真实使用者；目标场景相近的参与者</td><td>每轮5–8人；首次体验与熟练使用分开记录；不默认覆盖所有画像比较</td></tr><tr><td>R3 迭代方案形成性测试</td><td>候选方案目标人群；复访与新用户结合</td><td>每轮5–8人；记录是否见过旧方案，防止把熟悉效应当成改进效果</td></tr><tr><td>R4 综合评估／复测</td><td>与评价任务匹配的用户及遗漏场景</td><td>暂估10–12人；需要总体估计或显著性比较时另行设计样本，不以人数命名总结性测试</td></tr></tbody></table></div>
-<p>30–40 人是半年内完成至少一次正式访谈、观察或任务测试的独立人数区间；日志结束并完成核验回访也可计入。筛选问卷、预测试人员、预约、仅参会专家不自动计入。独立人数、深访人数、测试人数和研究人次分开，跨方法复访去重。</p>
-<p>每轮排期用“本轮目标场次－本轮完成场次－已确认本轮待参与场次”，半年配额用去重人数；复访可占本轮场次，但不再占新增独立名额。综合评估可以是小样本总结性评价，但是否做量化推断需单独设计。</p>
+<div class="tw"><table><thead><tr><th>研究阶段</th><th>邀请重点</th><th>规模与约束</th></tr></thead><tbody><tr><td>R1 探索访谈</td><td>三类画像、角色和使用阶段；先锋与熟练者；补足普通和停用者；历史复访者</td><td>先完成一批5–8人并分析，再按假设缺口决定是否追加。历史复访者本期参加才计本期人数</td></tr><tr><td>R2 当前产品形成性测试</td><td>已有真实使用者；目标场景相近的参与者</td><td>每轮5–8人；首次体验与熟练使用分开记录；不默认覆盖所有画像比较</td></tr><tr><td>R3 迭代方案形成性测试</td><td>候选方案目标人群；复访与新用户结合</td><td>每轮5–8人；记录是否见过旧方案，防止把熟悉效应当成改进效果</td></tr><tr><td>R4 综合评估／复测</td><td>与评价任务匹配的用户及遗漏场景</td><td>暂估10–12人；需要总体估计或显著性比较时另行设计样本，不以人数命名总结性测试</td></tr></tbody></table></div>
+<p>30–40 人是本期内完成至少一次正式访谈、观察或任务测试的独立人数区间；日志结束并完成核验回访也可计入。筛选问卷、预测试人员、预约、仅参会专家不自动计入。独立人数、深访人数、测试人数和研究人次分开，跨方法复访去重。</p>
+<p>每轮排期用“本轮目标场次－本轮完成场次－已确认本轮待参与场次”，本期配额用去重人数；复访可占本轮场次，但不再占新增独立名额。综合评估可以是小样本总结性评价，但是否做量化推断需单独设计。</p>
 <h2>新增问题的试填检查</h2>
 <p>问卷为20道核心题加C1，实际子题随经历分支；预计10–15分钟，以3–5人试填的实际时间校准。测试新工具0个、仅试用、先锋候选、Code熟练、Studio熟练、其他工具熟练、无公开分享、不便透露等路径，可与原有产品分支交叉覆盖；Q18 频率引用需在平台实现。若明显超时，优先把选填案例及第二款产品核验留到预约，保留关键事实题。</p>
 <p>访谈中的体验评分不放入招募资格判断；不得优先邀请高分或低分用户。问卷页面仅为审阅稿，跳题和复用频率须在正式采集平台配置并测试。</p>
-<p>计数核对：半年配额中的“已确认首次待参与”仅包含尚未完成任何正式研究、已确认首次场次的去重人数；复访预约不扣减新增独立名额。本场预约与完成状态放在每轮执行记录，不覆盖已完成首次研究的历史事实。</p></main></body></html>
+<p>计数核对：本期配额中的“已确认首次待参与”仅包含尚未完成任何正式研究、已确认首次场次的去重人数；复访预约不扣减新增独立名额。本场预约与完成状态放在每轮执行记录，不覆盖已完成首次研究的历史事实。</p>
+<p>执行容量：两位交互各30%，合计约3人日／周；招募协调与竞品维护共约0.5人日／周。首批先预约5–8人、按每周约2场执行；追加批次、测试与复访在阶段分析后确认，不一次锁定全部30–40人。暂无空余时进入候补并重新确认后续意愿，不承诺未确定的月份。</p></main></body></html>

diff --git a/site/catalog.js b/site/catalog.js
@@ -447,8 +447,8 @@ window.DEVECO_CATALOG = {
       note: '鸿蒙开发者是谁、要什么：用户研究、AI 开发准备、生态位与舆情、三端差异。',
       items: [
         {
-          title: '鸿蒙开发者用户研究与竞品趋势分析计划', subtitle: 'HarmonyOS Developer Research Plan · Nov 2026 – Apr 2027',
-          desc: '面向已上线初期产品的半年研究计划：结合六月用户原声、十月规划与竞品趋势，提出六项研究假设；以探索访谈、两轮形成性评测和阶段性综合评估输入2027规划。按三类画像覆盖30–40位独立参与者，配套20题外部招募问卷、先锋与熟练用户核验、筛选台账，以及基于用户旅程、5W2H、Think/Feel/Do的完整访谈与任务评测提纲。',
+          title: '鸿蒙开发者用户研究与竞品趋势分析计划', subtitle: 'HarmonyOS Developer Research Plan · Rolling Research',
+          desc: '面向已上线初期产品的滚动研究计划：结合六月用户原声、十月规划与竞品趋势，提出六项研究假设；按两位交互各30%的投入，以探索访谈、形成性评测和阶段性综合评估逐轮输入2027规划，不绑定固定结束月份。按三类画像覆盖30–40位独立参与者，配套20题外部招募问卷、先锋与熟练用户核验、筛选台账，以及基于用户旅程、5W2H、Think/Feel/Do的完整访谈与任务评测提纲。',
           view: 'doc', date: '2026-11-06', href: 'analysis/user-research-plan/REPORT-鸿蒙开发者用户研究计划.html',
           links: [{ label: '访谈与评测提纲', href: 'analysis/user-research-plan/interview-guide.html' }, { label: '外部招募问卷', href: 'analysis/user-research-plan/recruitment-questionnaire.html' }, { label: '筛选分类', href: 'analysis/user-research-plan/recruitment-screening-guide.html' }, { label: '竞品趋势计划', href: 'analysis/user-research-plan/REPORT-鸿蒙开发者用户研究计划.html#competition' }, { label: '研究问题', href: 'analysis/user-research-plan/REPORT-鸿蒙开发者用户研究计划.html#diff' }, { label: '预期产出', href: 'analysis/user-research-plan/REPORT-鸿蒙开发者用户研究计划.html#deliver' }, { label: '分层样本', href: 'analysis/user-research-plan/REPORT-鸿蒙开发者用户研究计划.html#sample' }, { label: '时间线', href: 'analysis/user-research-plan/REPORT-鸿蒙开发者用户研究计划.html#timeline' }],
           tags: ['竞品趋势', '用户研究', '分阶段研究', '立项方案', '大厂样本', '招募', '时间线'],

diff --git a/analysis/user-research-plan/interview-guide.html b/analysis/user-research-plan/interview-guide.html
@@ -147,4 +147,8 @@ b{font-weight:600;color:var(--ink)}
 <p>行动记录模板：问题／假设编号 → 适用用户与任务 → 证据及反例 → 影响 → 候选行动 → BP／版本／展会节点（待确认可标待确认）→ 负责人 → 依赖 → 验证任务 → 状态及决策理由。</p>
 <h2>八、每轮执行与资料交付</h2>
 <p>评测前完成需求对齐、场景与任务设计、环境和记录准备、内部预测试，并并行招募预约；评测中逐场执行和当天复盘；评测后完成编码分析、报告、产品行动评审与下一轮安排。礼品按参与约定发放，可在完成参与后启动，不以观点好坏或正负评价为条件。</p>
-<p>公开材料仅保留计划、提纲和空白规则。真实答卷、录音、联系方式和礼品登记保存在团队受控位置；每人统一编号，重复研究只增加场次。研究终止或不愿后续参与者停止邀约。</p></main></body></html>
+<p>公开材料仅保留计划、提纲和空白规则。真实答卷、录音、联系方式和礼品登记保存在团队受控位置；每人统一编号，重复研究只增加场次。研究终止或不愿后续参与者停止邀约。</p>
+<h2>九、两位交互兼任研究的执行容量</h2>
+<p>两人各30%，按5个工作日折算合计3人日／周；约2.25人日用于当轮核心研究、0.5人日用于招募协调与竞品维护、0.25人日留作机动。两人共同参加一场75分钟访谈，现场即占2.5人时，另有准备与分析。执行周按每周约2场安排，分析周减少或暂停新场次。</p>
+<p>启动准备约2–3周；首批5–8人的探索约6–9周，追加批次另估5–7周；形成性测试每轮约6–9周；10–12人的阶段综合评估约9–12周。均为当前投入下的弹性估算，不固定结束月份。产品修改、版本等待及额外设计工作单独计入日历安排；若设计也由两人承担，从同一投入额度中扣除。</p>
+<p>每轮先完成评测前准备、评测中执行、评测后分析与产品评审，再决定下一步。BP或展会前可交阶段快报，未验证项如实说明；插入紧急专题时调整原排期，不默认增加投入。</p></main></body></html>

diff --git a/analysis/user-research-plan/recruitment-tracker-template.md b/analysis/user-research-plan/recruitment-tracker-template.md
@@ -49,18 +49,18 @@
 
 统计日期：____　负责人：____　版本：____
 
-| 画像主类 | 建议区间 | 半年确认目标 | 已完成首次研究 | 已确认首次待参与 | 配额候补 | 专题补充 | 排期剩余 | 调整理由 |
+| 画像主类 | 建议区间 | 本期确认目标 | 已完成首次研究 | 已确认首次待参与 | 配额候补 | 专题补充 | 排期剩余 | 调整理由 |
 |---|---|---|---|---|---|---|---|---|
 | P1 头部互联网及同类大型研发团队 | 12–16 | | | | | | | |
 | P2 中厂 | 8–10 | | | | | | | |
 | P3 小团队与个人开发者 | 10–14 | | | | | | | |
 | 合计 | 30–40 | | | | | | | |
 
-先在区间内确定各组半年目标，并确保合计在 30–40 人内，再计算缺口；不能用区间直接减人数。来源、业务和组内形态是交叉标签，不增加总人数。
+先在区间内确定各组本期目标，并确保合计在 30–40 人内，再计算缺口；不能用区间直接减人数。来源、业务和组内形态是交叉标签，不增加总人数。
 
 汇总仅统计获准纳入主样本者的完成与待访；未获准的专题交流另列，不混入主配额。
 
-待分类人数：____（单列，不强行摊入三组）。排期剩余＝max(0, 半年确认目标－已完成首次研究－已确认首次待参与)。专题补充未批准纳入前不占主配额；批准后更新筛选状态和调整记录，不同时计入两列。候补 / 专题补充是筛选状态，已完成 / 待访是执行状态；按当期有效状态统计。
+待分类人数：____（单列，不强行摊入三组）。排期剩余＝max(0, 本期确认目标－已完成首次研究－已确认首次待参与)。专题补充未批准纳入前不占主配额；批准后更新筛选状态和调整记录，不同时计入两列。候补 / 专题补充是筛选状态，已完成 / 待访是执行状态；按当期有效状态统计。
 
 ## 交叉覆盖检查（均是同一批人的不同维度）
 
@@ -90,8 +90,10 @@
 |---|---|---|---|---|---|---|---|---|---|---|
 | | | | | | | | | | | |
 
-分别汇总：半年独立参与者数、深访人数、任务测试人数、研究人次；不把这些相加。每轮场次目标按5–8人的形成性批次或暂估10–12人的综合评估确定，30–40不是每轮人数。首次研究完成可来自访谈、观察或任务测试，招募问卷不计为一次正式研究。
+分别汇总：本期独立参与者数、深访人数、任务测试人数、研究人次；不把这些相加。每轮场次目标按5–8人的形成性批次或暂估10–12人的综合评估确定，30–40不是每轮人数。首次研究完成可来自访谈、观察或任务测试，招募问卷不计为一次正式研究。
 
 日志研究记录起止日期、有效事件数及回访完成情况；没有事件也保留原因，不虚补日记。礼品按参与约定发放，状态与研究观点好坏无关。
 
-计数核对：半年配额中的“已确认首次待参与”仅包含尚未完成任何正式研究、已确认首次场次的去重人数；复访预约不扣减新增独立名额。本场预约与完成状态放在每轮执行记录，不覆盖已完成首次研究的历史事实。
+计数核对：本期配额中的“已确认首次待参与”仅包含尚未完成任何正式研究、已确认首次场次的去重人数；复访预约不扣减新增独立名额。本场预约与完成状态放在每轮执行记录，不覆盖已完成首次研究的历史事实。
+
+排期容量：两位交互各30%，合计约3人日／周；每轮记录实际投入、预约变化和顺延原因。多轮累计覆盖不绑定六个月或固定月份；复访与新场次共用当周执行容量。

diff --git a/analysis/user-research-plan/interview-guide.md b/analysis/user-research-plan/interview-guide.md
@@ -164,3 +164,11 @@ R4综合评估先固定目标、任务、版本、评分和协助口径，再按
 评测前完成需求对齐、场景与任务设计、环境和记录准备、内部预测试，并并行招募预约；评测中逐场执行和当天复盘；评测后完成编码分析、报告、产品行动评审与下一轮安排。礼品按参与约定发放，可在完成参与后启动，不以观点好坏或正负评价为条件。
 
 公开材料仅保留计划、提纲和空白规则。真实答卷、录音、联系方式和礼品登记保存在团队受控位置；每人统一编号，重复研究只增加场次。研究终止或不愿后续参与者停止邀约。
+
+## 九、两位交互兼任研究的执行容量
+
+两人各30%，按5个工作日折算合计3人日／周；约2.25人日用于当轮核心研究、0.5人日用于招募协调与竞品维护、0.25人日留作机动。两人共同参加一场75分钟访谈，现场即占2.5人时，另有准备与分析。执行周按每周约2场安排，分析周减少或暂停新场次。
+
+启动准备约2–3周；首批5–8人的探索约6–9周，追加批次另估5–7周；形成性测试每轮约6–9周；10–12人的阶段综合评估约9–12周。均为当前投入下的弹性估算，不固定结束月份。产品修改、版本等待及额外设计工作单独计入日历安排；若设计也由两人承担，从同一投入额度中扣除。
+
+每轮先完成评测前准备、评测中执行、评测后分析与产品评审，再决定下一步。BP或展会前可交阶段快报，未验证项如实说明；插入紧急专题时调整原排期，不默认增加投入。
